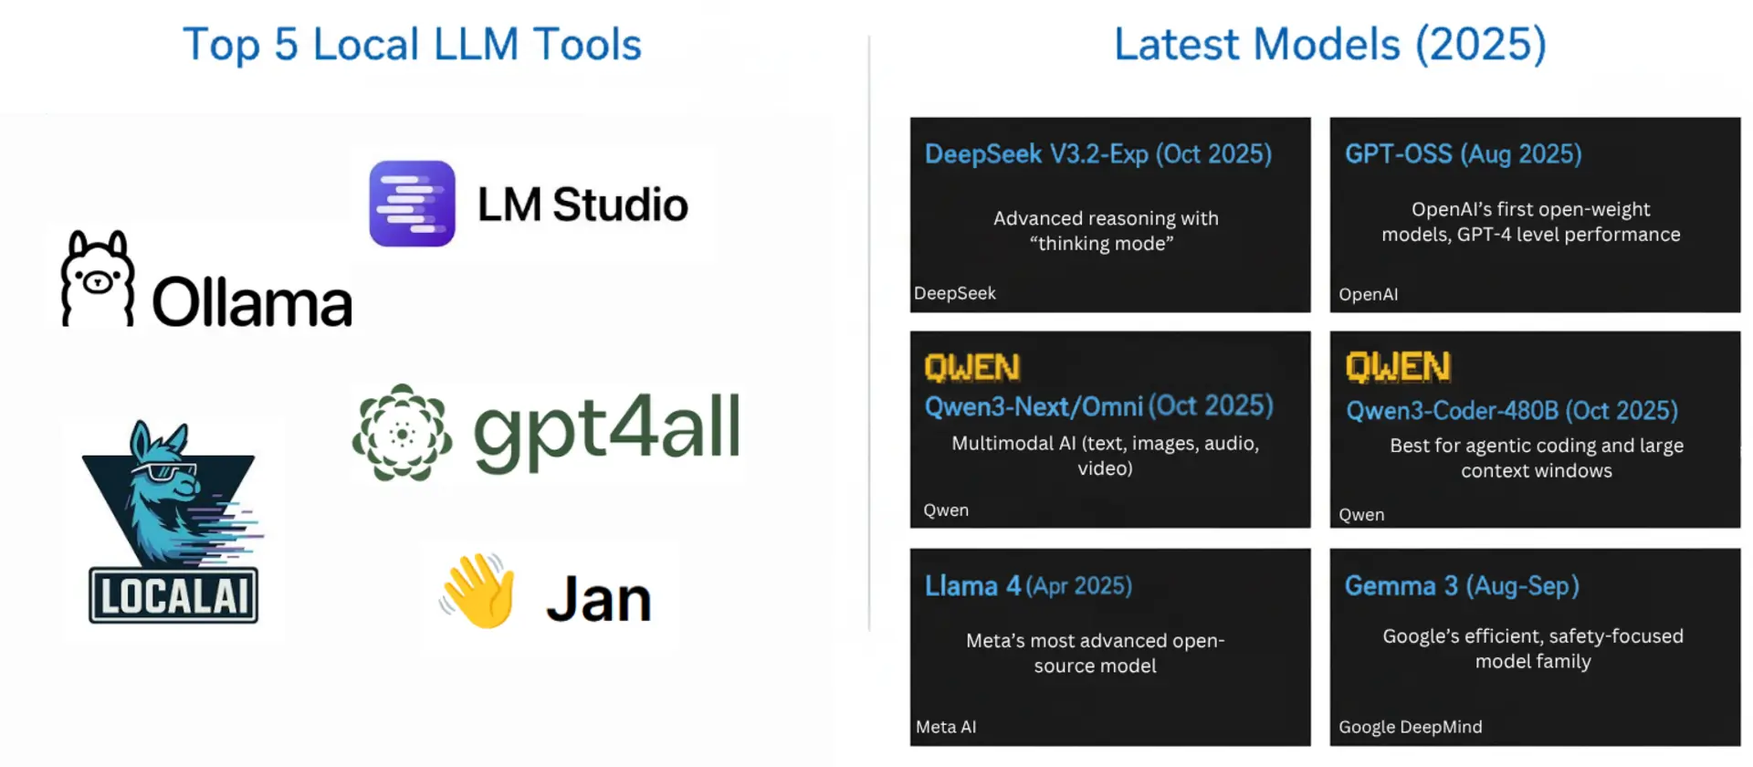
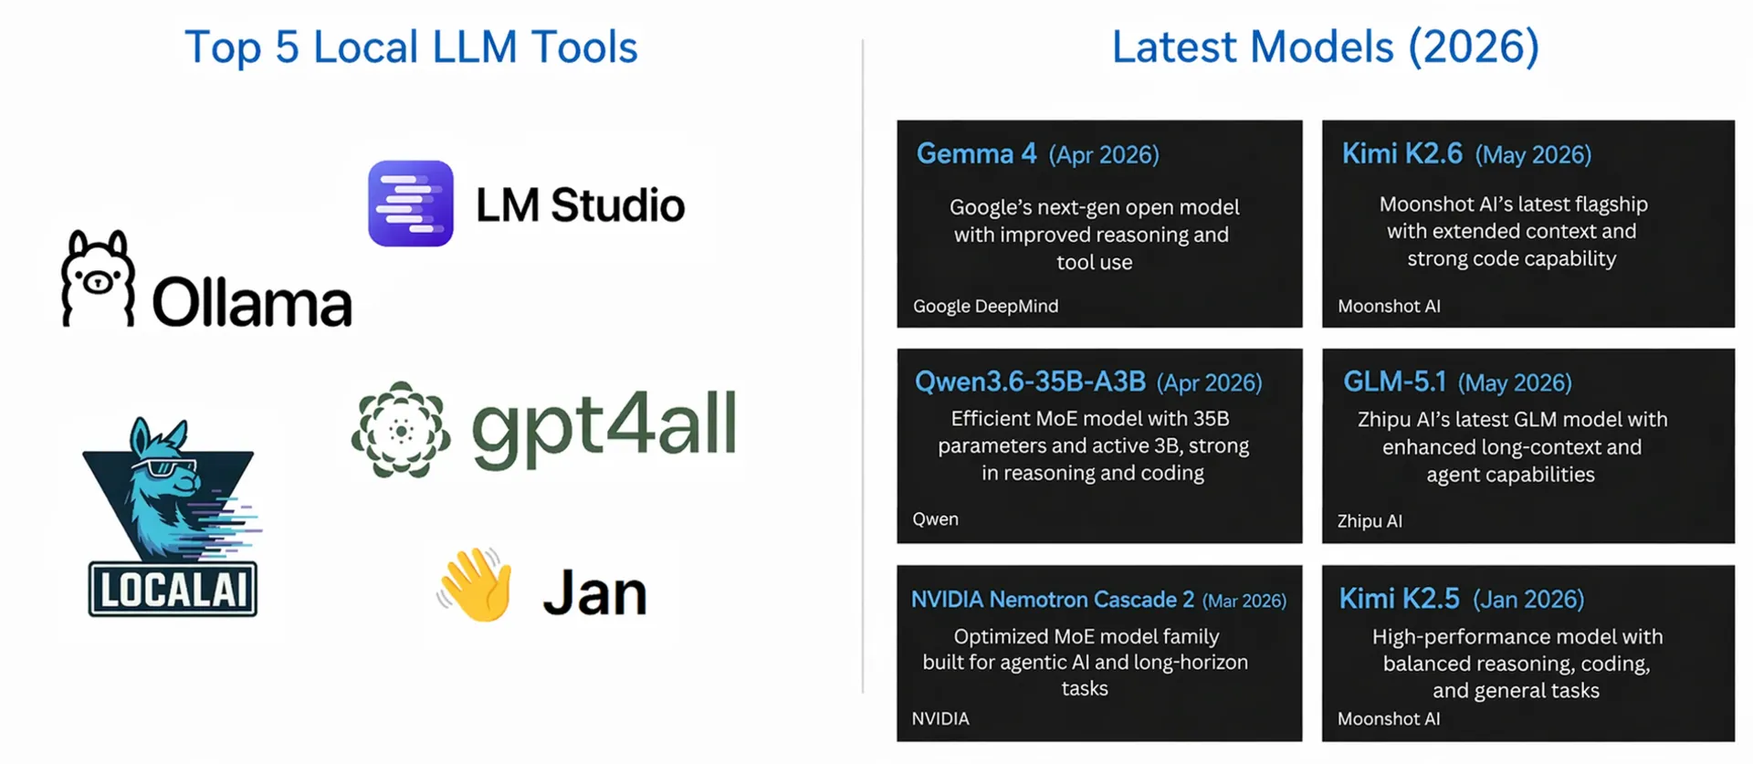
update blog and image

diff --git a/content/blog/top_5_local_llm_tools_and_models.md b/content/blog/top_5_local_llm_tools_and_models.md
@@ -2,7 +2,7 @@
 title: "Top 5 Local LLM Tools and Models in 2026"
 description: "Discover the best local LLM tools and models in 2026 that offer privacy, control, and cost-effectiveness for running powerful AI models on your own hardware."
 date: 2025-06-04T14:00:00+05:30
-lastmod: 2026-01-14T14:15:25+05:30
+lastmod: 2026-04-23T17:41:00+05:30
 draft: false
 tags: ["LLM", "AI Models", "Local AI", "Self-Hosted AI", "Ollama", "LM Studio", "GPT4All", "llama.cpp", "Local Inference", "Jan"]
 og_image: "images/top_5_local_llm_tools_and_models/top_5_local_llm_tools_and_models_banner.webp"
@@ -16,7 +16,7 @@ aliases:
 ---
 
 {{< image "top_5_local_llm_tools_and_models/top_5_local_llm_tools_and_models_banner.webp" "top 5 local llm tools and models 2026 banner" >}}
-Running powerful AI language models locally has become increasingly accessible in 2026, offering privacy, cost savings, and full control over your data. With groundbreaking releases like OpenAI's GPT-OSS, DeepSeek V3.2-Exp, Qwen3-Next/Omni, Qwen3-Coder-480B for agentic coding, Meta's Llama 4, Google's Gemma 3, GLM-4.7, Kimi-K2, NVIDIA Nemotron 3, and Mistral Large 3, local LLMs now rival cloud-based services in performance while maintaining complete data privacy and eliminating subscription costs.
+Running powerful AI language models locally has become increasingly accessible in 2026, offering privacy, cost savings, and full control over your data. With groundbreaking releases like Google's Gemma 4, Kimi K2.5/K2.6, Qwen3.5/3.6, GLM-5.1, NVIDIA Nemotron Cascade 2, OpenAI's GPT-OSS, DeepSeek V3.2-Exp, Qwen3-Coder-480B for agentic coding, Meta's Llama 4, and Mistral Large 3, local LLMs now rival cloud-based services in performance while maintaining complete data privacy and eliminating subscription costs.
 
 
 {{% tldr %}}
@@ -31,16 +31,16 @@ Running powerful AI language models locally has become increasingly accessible i
 **Bonus: Jan** - Complete ChatGPT alternative, 100% offline | <a href="https://jan.ai/" target="_blank">Download</a>
 
 **Latest Models (2026):**
-- **NVIDIA Nemotron 3** (Dec 2025) - NVIDIA's efficient 30B parameter model | <a href="https://huggingface.co/nvidia/NVIDIA-Nemotron-3-Nano-30B-A3B-Base-BF16" target="_blank">Hugging Face</a>
-- **Mistral Large 3** (Dec 2026) - Mistral's most capable model | <a href="https://ollama.com/library/mistral-large-3" target="_blank">Ollama</a>
-- **GLM-4.7** (Dec 2025) - Advanced open-source model by ZAI | <a href="https://huggingface.co/zai-org/GLM-4.7" target="_blank">Hugging Face</a>
-- **Kimi-K2 Thinking** (Nov 2025) - Moonshot AI's thinking model with advanced reasoning | <a href="https://huggingface.co/moonshotai/Kimi-K2-Thinking" target="_blank">Hugging Face</a>
+- **Gemma 4** (Apr 2026) - Google's MoE flagship, 26B params, 85 t/s on consumer hardware | <a href="https://ai.google.dev/gemma" target="_blank">Google</a>
+- **Kimi K2.6** (Apr 2026) - Latest Moonshot AI with Agent Swarm architecture | <a href="https://www.moonshot.cn/" target="_blank">Moonshot AI</a>
+- **Qwen3.6-35B-A3B** (Apr 2026) - Alibaba's newest efficient MoE model | <a href="https://qwenlm.github.io/" target="_blank">Qwen</a>
+- **GLM-5.1** (Apr 2026) - Zhipu AI's latest with 744B MoE architecture | <a href="https://huggingface.co/zai-org/GLM-5.1" target="_blank">Hugging Face</a>
+- **NVIDIA Nemotron Cascade 2** (Mar 2026) - Optimized for fast local inference | <a href="https://huggingface.co/nvidia/Nemotron-Cascade-2" target="_blank">Hugging Face</a>
+- **Kimi K2.5** (Jan 2026) - 1T parameter MoE with Agent Swarm | <a href="https://huggingface.co/moonshotai/Kimi-K2.5" target="_blank">Hugging Face</a>
+- **Qwen3.5** (Mar 2026) - 122B MoE, beats GPT-5-mini on benchmarks | <a href="https://huggingface.co/Qwen/Qwen3.5" target="_blank">Hugging Face</a>
+- **Mistral Large 3** (Dec 2025) - Mistral's most capable model | <a href="https://ollama.com/library/mistral-large-3" target="_blank">Ollama</a>
 - **GPT-OSS** (Aug 2025) - OpenAI's first open-weight models, GPT-4 level performance | <a href="https://openai.com/index/introducing-gpt-oss/" target="_blank">OpenAI</a>
 - **DeepSeek V3.2-Exp** (Oct 2025) - Advanced reasoning with "thinking mode" | <a href="https://www.deepseek.com/" target="_blank">DeepSeek</a>
-- **Qwen3-Next/Omni** (Oct 2025) - Multimodal AI (text, images, audio, video) | <a href="https://qwenlm.github.io/" target="_blank">Qwen</a>
-- **Qwen3-Coder-480B** (Oct 2025) - Best for agentic coding and large context windows | <a href="https://qwenlm.github.io/" target="_blank">Qwen</a>
-- **Llama 4** (Apr 2025) - Meta's most advanced open-source model | <a href="https://llama.meta.com/" target="_blank">Meta</a>
-- **Gemma 3** (Aug-Sep 2025) - Google's efficient, safety-focused model family | <a href="https://ai.google.dev/gemma" target="_blank">Google</a>
 
 
 {{% /tldr %}}
@@ -63,10 +63,11 @@ Ollama has emerged as the go-to solution for running LLMs locally, striking an i
 
 **Key Features:**
 - One-line commands to pull and run models
-- Support for 100+ optimized models including GPT-OSS, DeepSeek V3.2-Exp, Qwen3-Next/Omni/Coder, VaultGemma, and Llama 4
+- Support for 200+ optimized models including Gemma 4, Kimi K2.5/K2.6, Qwen3.5/3.6, GLM-5.1, Nemotron Cascade 2, GPT-OSS, DeepSeek V3.2-Exp, and Mistral Large 3
+- Native Kimi CLI integration (`ollama launch kimi`) for agentic workflows
 - Cross-platform support (Windows, macOS, Linux)
-- OpenAI-compatible API
-- Active community and regular updates
+- OpenAI-compatible API with MLX optimizations for Apple Silicon
+- Active community and regular updates (latest: v0.21.x with Hermes Agent support)
 
 **Getting Started with Ollama:**
 
@@ -78,23 +79,23 @@ Ollama has emerged as the go-to solution for running LLMs locally, striking an i
 2. **Run a model**:
    ```bash
    # Pull and run the latest models in one command
-   ollama run qwen3:0.6b
+   ollama run qwen3.5
 
-   # For smaller hardware:
-   ollama run gemma3:1b
+   # For the fastest local inference:
+   ollama run gemma4:26b
 
    # For the latest reasoning models:
    ollama run deepseek-v3.2-exp:7b
 
-   # For the most advanced open model:
-   ollama run llama4:8b
+   # For agentic AI with Kimi K2.6:
+   ollama launch kimi --model kimi-k2.6:cloud
    ```
    {{< image "how_to_easily_share_ollama_api_and_open_webui_online/model_run_terminal.webp" "Running a model with Ollama" >}}
 
 3. **Use the API**:
    ```bash
    curl http://localhost:11434/api/chat -d '{
-     "model": "llama4:8b",
+     "model": "gemma4:26b",
      "messages": [
        {"role": "user", "content": "Explain quantum computing in simple terms"}
      ]
@@ -233,7 +234,7 @@ GPT4All provides a polished desktop application experience with minimal setup re
    ```bash
    http://localhost:8080/browse/
    ```
-{{< image "top_5_local_llm_tools_and_models/local_ai.webp" "GPT4All desktop application" >}}
+{{< image "top_5_local_llm_tools_and_models/local_ai.webp" "LocalAI model browser" >}}
 
 
 **Best For**: Developers who need a flexible, API-compatible solution for integrating local LLMs into applications.
@@ -273,11 +274,86 @@ Jan is a comprehensive ChatGPT alternative that runs completely offline on your 
 
 ## Best Models for Local Deployment in 2026
 
-The quality of locally runnable models has improved dramatically. Here are the standout models of 2025:
+The quality of locally runnable models has improved dramatically. Here are the standout models of 2026:
 
-### 1. GPT-OSS (20B and 120B)
+### 1. Gemma 4 (26B-A4B)
+
+Google's Gemma 4 represents a paradigm shift in local AI deployment, delivering frontier-level intelligence in a remarkably compact package. This Mixture-of-Experts (MoE) model activates only 4 billion parameters per token from its 26 billion total, achieving an impressive 85 tokens per second on consumer hardware like AMD Ryzen AI MAX+ with 128GB RAM. With a 256K context window for long document analysis and function calling that actually works, Gemma 4 definitively blurs the line between cloud and local intelligence.
+
+{{< image "top_5_local_llm_tools_and_models/gemma.webp" "Gemma 4 model overview" >}}
+
+- **Release Date**: April 2026
+- **Official Website**: {{< link href="https://ai.google.dev/gemma" >}}Google Gemma{{< /link >}}
+- **Models**:
+  - {{< link href="https://huggingface.co/google/gemma-4-26b-a4b-it" >}}Gemma 4 26B-A4B{{< /link >}} - 26B params (4B active), runs on 64GB+ RAM
+  - {{< link href="https://huggingface.co/google/gemma-4-31b-it" >}}Gemma 4 31B{{< /link >}} - Larger variant for high-end hardware
+- **Hardware Requirements**: 32GB+ RAM for 26B-A4B, 64GB+ for 31B
+- **Strengths**: 85 t/s inference speed, 256K context window, GPT-4 quality reasoning, efficient MoE architecture
+- **Compatible with**: Ollama, LM Studio, text-generation-webui, Jan
+
+### 2. Kimi K2.5 and K2.6
+
+Moonshot AI's Kimi K2.5 and the newly released K2.6 represent the pinnacle of open-weight AI models with their revolutionary Agent Swarm architecture. These massive 1 trillion parameter MoE models (32B active per token) can coordinate up to 100 sub-agents for complex tasks, making them ideal for sophisticated agentic workflows. The K2.6 release in April 2026 brings enhanced long-horizon agentic execution capabilities and is now available through Ollama's Kimi CLI integration.
+
+{{< image "top_5_local_llm_tools_and_models/moonshot.webp" "Moonshot AI Kimi model page" >}}
+
+- **Release Dates**: K2.5 (January 2026), K2.6 (April 2026)
+- **Official Website**: {{< link href="https://www.moonshot.cn/" >}}Moonshot AI{{< /link >}}
+- **Models**:
+  - {{< link href="https://huggingface.co/moonshotai/Kimi-K2.5" >}}Kimi K2.5{{< /link >}} - 1T params (32B active), Agent Swarm architecture
+  - {{< link href="https://huggingface.co/moonshotai/Kimi-K2.6" >}}Kimi K2.6{{< /link >}} - Latest with improved agentic execution
+- **Hardware Requirements**: 128GB+ RAM recommended for full capabilities
+- **Strengths**: Agent Swarm (100 sub-agents), AIME 2025 96.1% score, multimodal (text + image + video), thinking mode
+- **License**: Modified MIT (free commercial use below 100M MAU)
+- **Compatible with**: Ollama (via `ollama launch kimi --model kimi-k2.6:cloud`), LM Studio, text-generation-webui
+
+### 3. Qwen3.5 and Qwen3.6
+
+Alibaba's Qwen3.5 and the newer Qwen3.6 series represent the current state-of-the-art in open-source MoE models. Qwen3.5's 122 billion parameters with only 10 billion active per token deliver performance that beats GPT-5-mini on most benchmarks all while running on a MacBook with 64GB RAM. The April 2026 Qwen3.6-35B-A3B release brings further efficiency improvements with just 3.5 billion active parameters from 35 billion total.
+
+{{< image "top_5_local_llm_tools_and_models/qwen.webp" "Qwen 3.5 and 3.6 model overview" >}}
+
+- **Release Dates**: Qwen3.5 (March 2026), Qwen3.6 (April 2026)
+- **Official Website**: {{< link href="https://qwenlm.github.io/" >}}Qwen{{< /link >}}
+- **Models**:
+  - {{< link href="https://huggingface.co/Qwen/Qwen3.5" >}}Qwen3.5{{< /link >}} - 122B params (10B active), Apache 2.0 license
+  - {{< link href="https://huggingface.co/Qwen/Qwen3.6-35B-A3B" >}}Qwen3.6-35B-A3B{{< /link >}} - 35B params (3.5B active)
+- **Hardware Requirements**: 64GB+ RAM for Qwen3.5, 32GB+ for Qwen3.6-35B-A3B
+- **Strengths**: Apache 2.0 license, 262K context (expandable to 1M), beats GPT-5-mini on benchmarks
+- **Compatible with**: Ollama, LM Studio, LocalAI, Jan
+
+### 4. GLM-5.1
+
+Zhipu AI's GLM-5.1 represents a massive leap forward with its 744 billion parameter MoE architecture 40 billion active per token trained on 28.5 trillion tokens. Released in April 2026, this model uses DeepSeek Sparse Attention (DSA) to reduce long-context compute, making it one of the most cost-efficient models at this scale for agentic deployment. It inherits and improves upon GLM-4.7's production workflow capabilities.
+
+{{< image "top_5_local_llm_tools_and_models/glm.webp" "GLM-5.1 model overview" >}}
+
+- **Release Date**: April 2026
+- **Official Website**: {{< link href="https://z.ai/" >}}Z.ai{{< /link >}}
+- **Model**: {{< link href="https://huggingface.co/zai-org/GLM-5.1" >}}GLM-5.1{{< /link >}} (744B total, 40B active)
+- **Hardware Requirements**: 128GB+ RAM for optimal performance
+- **Strengths**: DeepSeek Sparse Attention (DSA), 28.5T training tokens, advanced agentic execution, BrowseComp 67.5
+- **Compatible with**: Ollama, LM Studio, text-generation-webui, Claude Code, Cline, Roo Code
+
+### 5. NVIDIA Nemotron Cascade 2
+
+NVIDIA's Nemotron Cascade 2 replaces the previous Nemotron 3 as the company's flagship inference-optimized model for local deployment. This 30 billion parameter model runs at approximately 54 tokens per second on consumer GPUs (tested on RTX 4060 Ti + RTX 3060 configurations), delivering 15x faster performance than human speech with quality comparable to GPT-4o mini.
+
+{{< image "top_5_local_llm_tools_and_models/nvidia.webp" "NVIDIA Nemotron Cascade 2 model page" >}}
+
+- **Release Date**: March 2026
+- **Official Website**: {{< link href="https://nvidia.com/" >}}NVIDIA{{< /link >}}
+- **Model**: {{< link href="https://huggingface.co/nvidia/Nemotron-Cascade-2" >}}Nemotron Cascade 2{{< /link >}} (30B parameters)
+- **Hardware Requirements**: 16GB+ VRAM (NVIDIA GPU optimized)
+- **Strengths**: 54 t/s on consumer GPUs, CUDA-optimized inference, quality comparable to GPT-4o mini
+- **License**: NVIDIA license (open weights with commercial restrictions)
+- **Compatible with**: Ollama, LM Studio, vLLM, SGLang, llama.cpp, NVIDIA NIM
+
+### 6. GPT-OSS (20B and 120B)
 
 OpenAI's groundbreaking first open-weight models represent a major shift in the AI landscape, bringing enterprise-grade reasoning capabilities to local deployment. These models excel at advanced reasoning, sophisticated tool calling, and complex agentic workflows, making them ideal for developers building AI applications that require reliable decision-making capabilities.
+
+{{< image "top_5_local_llm_tools_and_models/openai.webp" "OpenAI GPT-OSS models" >}}
 
 - **Release Date**: August 2025
 - **Official Website**: {{< link href="https://openai.com/index/introducing-gpt-oss/" >}}OpenAI{{< /link >}}
@@ -287,9 +363,11 @@ OpenAI's groundbreaking first open-weight models represent a major shift in the 
 - **Strengths**: Advanced reasoning, tool calling, agentic workflows, GPT-4 level performance
 - **Compatible with**: Ollama, LM Studio, LocalAI
 
-### 2. DeepSeek V3.2-Exp
+### 7. DeepSeek V3.2-Exp
 
 The latest evolution in DeepSeek's reasoning model family represents cutting-edge advancement in AI reasoning capabilities, approaching the performance levels of O3 and Gemini 2.5 Pro. This experimental model showcases DeepSeek's continued innovation in mathematical problem solving and complex reasoning tasks. The model features an advanced "thinking mode" that allows it to work through problems step-by-step, making it particularly valuable for developers working on applications requiring logical reasoning, code analysis, and mathematical computations.
+
+{{< image "top_5_local_llm_tools_and_models/deepseek.webp" "DeepSeek V3.2-Exp model page" >}}
 
 - **Release Date**: September 2025
 - **Official Website**: {{< link href="https://www.deepseek.com/" >}}DeepSeek{{< /link >}}
@@ -298,97 +376,11 @@ The latest evolution in DeepSeek's reasoning model family represents cutting-edg
 - **Strengths**: Advanced reasoning, thinking mode, mathematical problem solving, code analysis
 - **Compatible with**: Ollama, LM Studio, text-generation-webui, Jan
 
-### 3. Qwen3-Next and Qwen3-Omni
-
-Alibaba's latest innovations in the Qwen family introduce two specialized variants that push the boundaries of multimodal AI. Qwen3-Next represents the next generation of dense and mixture-of-experts (MoE) models, offering unprecedented multilingual capabilities and advanced reasoning across 128K token contexts. Meanwhile, Qwen3-Omni breaks new ground as a truly multimodal model that seamlessly handles text, images, audio, and video inputs, making it ideal for developers building comprehensive AI applications.
-
-- **Release Date**: September 2025
-- **Official Website**: {{< link href="https://qwenlm.github.io/" >}}Qwen{{< /link >}}
-- **Models**:
-  - {{< link href="https://github.com/QwenLM/Qwen3" >}}Qwen3-Next{{< /link >}} - Next-gen dense and MoE models
-  - {{< link href="https://github.com/QwenLM/Qwen3-Omni" >}}Qwen3-Omni{{< /link >}} - Multimodal (text, images, audio, video)
-- **Hardware Requirements**: 16GB RAM (8B variants) to 32GB+ RAM (larger configurations)
-- **Strengths**: Multilingual excellence, tool calling, thinking capabilities, 128K context, multimodal understanding
-- **Compatible with**: Ollama, LM Studio, LocalAI, Jan
-
-### 4. Gemma 3 Family
-
-Google's Gemma 3 family has expanded significantly with multiple specialized variants representing the newest evolution in Google's open-source AI initiative. These models are designed with safety and efficiency at their core, offering developers reliable performance across various hardware configurations. All Gemma 3 models feature advanced vision understanding capabilities and maintain Google's commitment to responsible AI development.
-
-- **Release Dates**: August - September 2025
-- **Official Website**: {{< link href="https://ai.google.dev/gemma" >}}Google Gemma{{< /link >}}
-- **Models**:
-  - {{<link href="https://huggingface.co/google/gemma-3-270m">}} Gemma 3 270M {{</link>}} (August 2025) - Ultra-compact model
-  - EmbeddingGemma 308M (September 2025) - Specialized embeddings
-  - VaultGemma 1B (September 2025) - Latest flagship compact model
-  - Gemma 3 4B - Runs on basic hardware (8GB RAM)
-  - Gemma 3 27B - High-end consumer hardware (32GB RAM)
-- **Strengths**: Vision understanding, efficient performance, safety-focused design
-- **License**: Open-source weights (review Google's Gemma license for usage terms)
-- **Compatible with**: Ollama, LM Studio, text-generation-webui, Jan
-
-### 5. Llama 4
-
-Meta's revolutionary Llama 4 represents a quantum leap in open-source language model capabilities as the company's most advanced offering to date. This latest iteration builds upon the success of the Llama 3 series while introducing significant architectural improvements that deliver enhanced reasoning, superior instruction following, and remarkable efficiency gains. Llama 4 demonstrates Meta's continued commitment to democratizing AI by providing developers with a model that rivals proprietary alternatives while maintaining complete transparency and control.
-
-- **Release Date**: April 2025
-- **Official Website**: {{< link href="https://llama.meta.com/" >}}Meta Llama{{< /link >}}
-- **Model**: {{< link href="https://huggingface.co/meta-llama" >}}Llama 4{{< /link >}} (Multiple variants available)
-- **Hardware Requirements**: 64GB+ RAM for optimal performance
-- **Strengths**: General knowledge, creative writing, complex reasoning, code generation, efficiency improvements
-- **Compatible with**: Ollama, LM Studio, text-generation-webui, Jan
-
-### 6. Qwen3-Coder-480B-A35B-Instruct
-
-The best Qwen model for coding, particularly excelling at agentic coding and tasks requiring large context windows. This flagship coding model represents Alibaba's most advanced offering for software development, delivering unprecedented capabilities in complex programming tasks. The model is specifically optimized for agentic coding workflows where AI systems need to understand, plan, and execute multi-step coding projects autonomously. With its massive context window, it can handle entire codebases and maintain context across extensive development sessions.
-
-- **Release Date**: October 2025
-- **Official Website**: {{< link href="https://qwenlm.github.io/" >}}Qwen{{< /link >}}
-- **Model**: Qwen3-Coder-480B-A35B-Instruct (480B parameters, 35B active)
-- **Hardware Requirements**: Enterprise-grade hardware (128GB+ RAM recommended)
-- **Strengths**: Agentic coding, large context windows, complex project understanding, autonomous development workflows, multi-step planning
-- **Best For**: Large-scale software projects, codebase analysis, automated refactoring, complex debugging
-- **Compatible with**: Ollama, LM Studio, text-generation-webui, Jan (with sufficient hardware)
-
-### 7. GLM-4.7
-
-Z.ai's GLM-4.7 represents the latest evolution in the GLM large language model family, specifically designed for real-world development environments. Released in December 2025, this model targets production workflows involving lengthy task cycles, frequent tool use, and high demands for stability and consistency. GLM-4.7 builds upon GLM-4.6 with enhanced support for coding workflows, complex reasoning, and agentic-style execution.
-
-- **Release Date**: December 2025
-- **Official Website**: {{< link href="https://z.ai/" >}}Z.ai{{< /link >}}
-- **Model**: {{< link href="https://huggingface.co/zai-org/GLM-4.7" >}}GLM-4.7{{< /link >}}
-- **Hardware Requirements**: 32GB+ RAM for optimal performance
-- **Strengths**: Multi-step task handling, tool calling, coding workflows, agentic execution, frontend generation, conversational quality
-- **Benchmarks**: Scores 67.5 on BrowseComp, 87.4 on τ²-Bench (highest among open-source models)
-- **Compatible with**: Ollama, LM Studio, text-generation-webui, Claude Code, Cline, Roo Code, TRAE, Kilo Code
-
-### 8. Kimi-K2 Thinking
-
-Moonshot AI's Kimi K2 Thinking is a massive Mixture-of-Experts (MoE) model with a special focus on agentic AI capabilities. Released in November 2025, this model represents Alibaba-backed Moonshot's continued innovation in the competitive Chinese AI landscape. The "Thinking" variant emphasizes advanced reasoning capabilities, allowing the model to work through complex problems systematically.
-
-- **Release Date**: November 2025
-- **Official Website**: {{< link href="https://www.moonshot.cn/" >}}Moonshot AI{{< /link >}}
-- **Model**: {{< link href="https://huggingface.co/moonshotai/Kimi-K2-Thinking" >}}Kimi-K2-Thinking{{< /link >}}
-- **Hardware Requirements**: 64GB+ RAM recommended for full model
-- **Strengths**: Advanced reasoning, agentic workflows, tool use, multi-step problem solving, thinking mode
-- **Best For**: Complex reasoning tasks, research applications, agentic AI systems
-- **Compatible with**: Ollama, LM Studio, text-generation-webui, Fireworks AI
-
-### 9. NVIDIA Nemotron 3 Nano
-
-NVIDIA's Nemotron 3 Nano introduces a breakthrough hybrid latent mixture-of-experts (MoE) architecture designed to power efficient and specialized agentic AI development. With 30 billion parameters activating up to 3 billion at a time, this model delivers exceptional efficiency for targeted tasks while maintaining high accuracy. The model achieves up to 4x higher token throughput compared to its predecessor and reduces reasoning-token generation by up to 60%.
-
-- **Release Date**: December 2025
-- **Official Website**: {{< link href="https://nvidia.com/" >}}NVIDIA{{< /link >}}
-- **Model**: {{< link href="https://huggingface.co/nvidia/NVIDIA-Nemotron-3-Nano-30B-A3B-Base-BF16" >}}Nemotron-3-Nano-30B-A3B{{< /link >}}
-- **Hardware Requirements**: 16GB+ RAM (optimized for efficiency)
-- **Strengths**: High throughput, efficient inference, multi-agent systems, 1M token context window, software debugging, content summarization, AI assistant workflows
-- **License**: Open weights with permissive license
-- **Compatible with**: Ollama, LM Studio, vLLM, SGLang, llama.cpp, NVIDIA NIM
-
-### 10. Mistral Large 3
+### 8. Mistral Large 3
 
 Mistral AI's Mistral Large 3 is a state-of-the-art open-weight model and Mistral's first mixture-of-experts model since the seminal Mixtral series. Trained with 41B active and 675B total parameters on 3000 NVIDIA H200 GPUs, this model represents a substantial step forward in frontier AI capabilities. Released under the Apache 2.0 license, it provides developers with transparency and efficiency for building agentic systems at scale.
+
+{{< image "top_5_local_llm_tools_and_models/mistral.webp" "Mistral Large 3 model overview" >}}
 
 - **Release Date**: December 2025
 - **Official Website**: {{< link href="https://mistral.ai/" >}}Mistral AI{{< /link >}}
@@ -402,10 +394,8 @@ Mistral AI's Mistral Large 3 is a state-of-the-art open-weight model and Mistral
 
 ## Conclusion
 
-Local LLMs have evolved rapidly in 2026, with models like GPT-OSS, DeepSeek V3.2-Exp, Qwen3-Omni/Coder, Llama 4, VaultGemma, GLM-4.7, Kimi-K2, NVIDIA Nemotron 3, and Mistral Large 3 bringing near-commercial AI performance to personal devices.
+Local LLMs have evolved rapidly in 2026, with groundbreaking models like Google's Gemma 4 (85 t/s on consumer hardware), Moonshot AI's Kimi K2.5/K2.6 (1T parameter Agent Swarm models), Alibaba's Qwen3.5/3.6 (beating GPT-5-mini), Zhipu AI's GLM-5.1 (744B MoE), NVIDIA's Nemotron Cascade 2 (54 t/s inference), OpenAI's GPT-OSS, DeepSeek V3.2-Exp, and Mistral Large 3 bringing frontier-level AI performance to personal devices.
 
 Whether you prefer simplicity (Ollama, GPT4All), GUIs (LM Studio), flexibility (text-generation-webui, LocalAI), or all-in-one solutions (Jan), there’s a perfect fit for every user.
 
-These new models deliver powerful reasoning, multimodal support, agentic coding capabilities, and built-in tool-calling—making local AI both capable and secure. Running LLMs locally gives you full data control, no subscription costs, and offline functionality.
-
-> **Want more?** Explore our guide on {{< link href="/blog/best_ai_tools_for_coding/" >}}best AI tools for coding{{< /link >}} to boost your workflow.
+These new models deliver powerful reasoning, multimodal support, agentic coding capabilities, and built-in tool-calling making local AI both capable and secure. Running LLMs locally gives you full data control, no subscription costs, and offline functionality.
